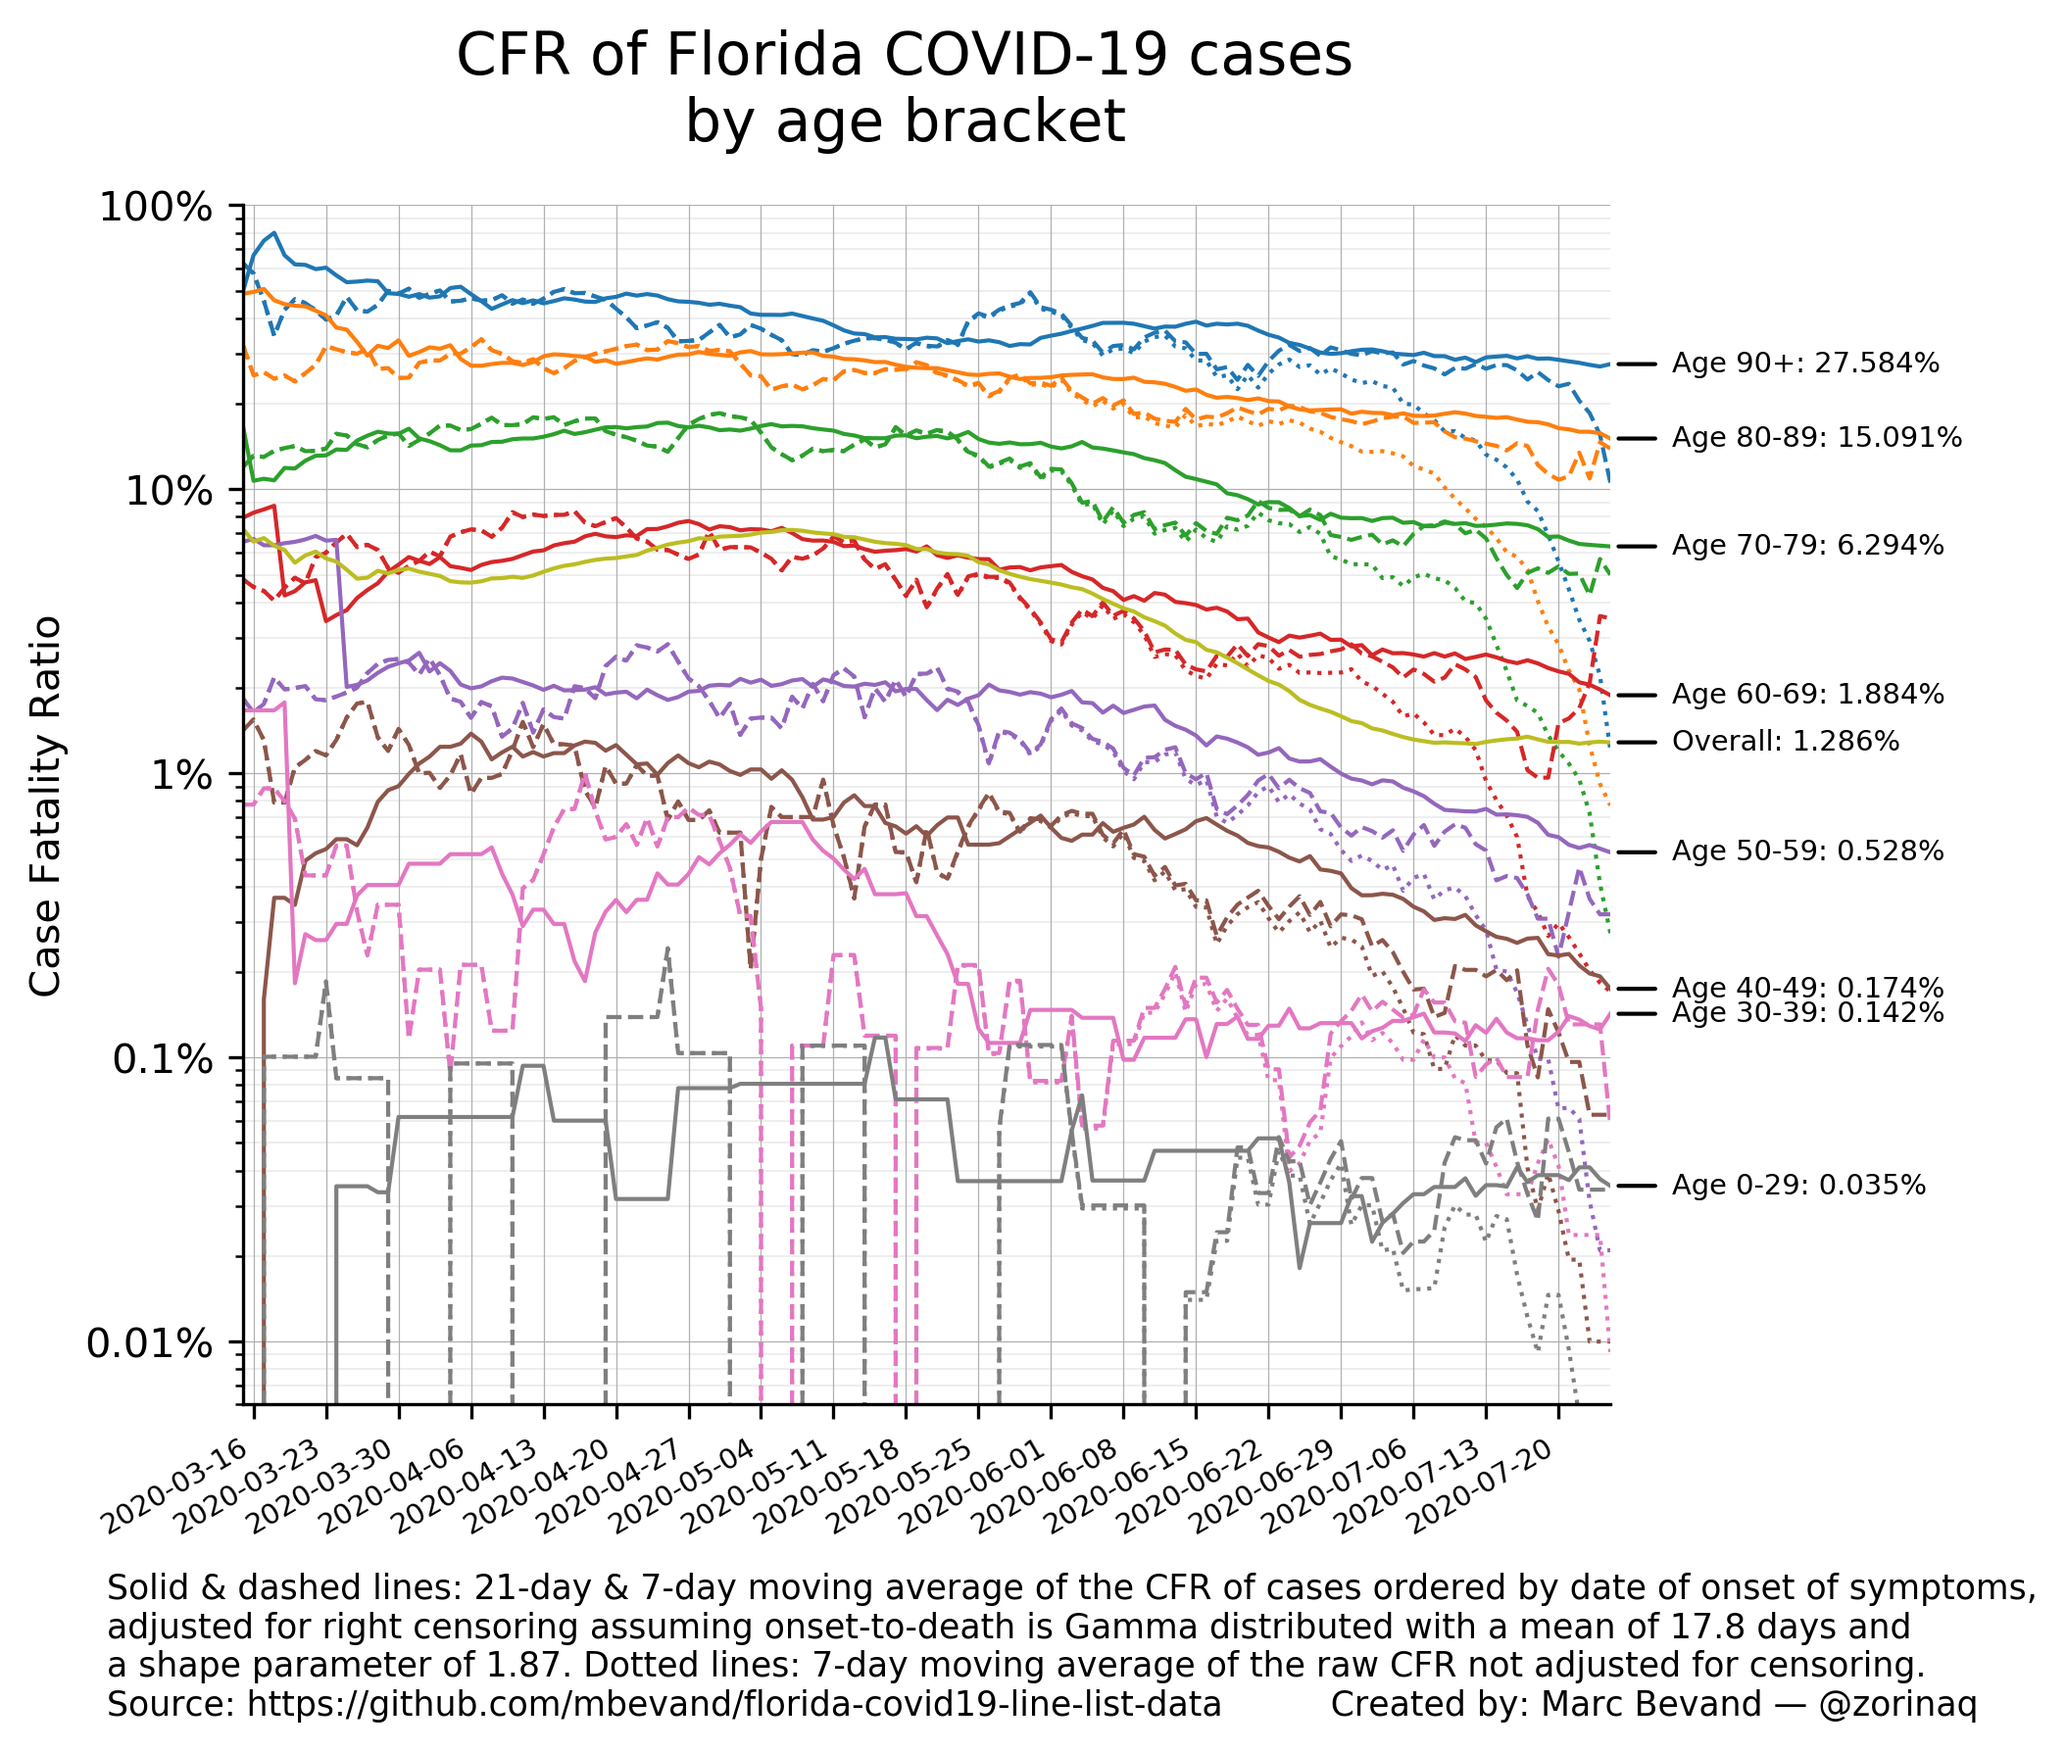
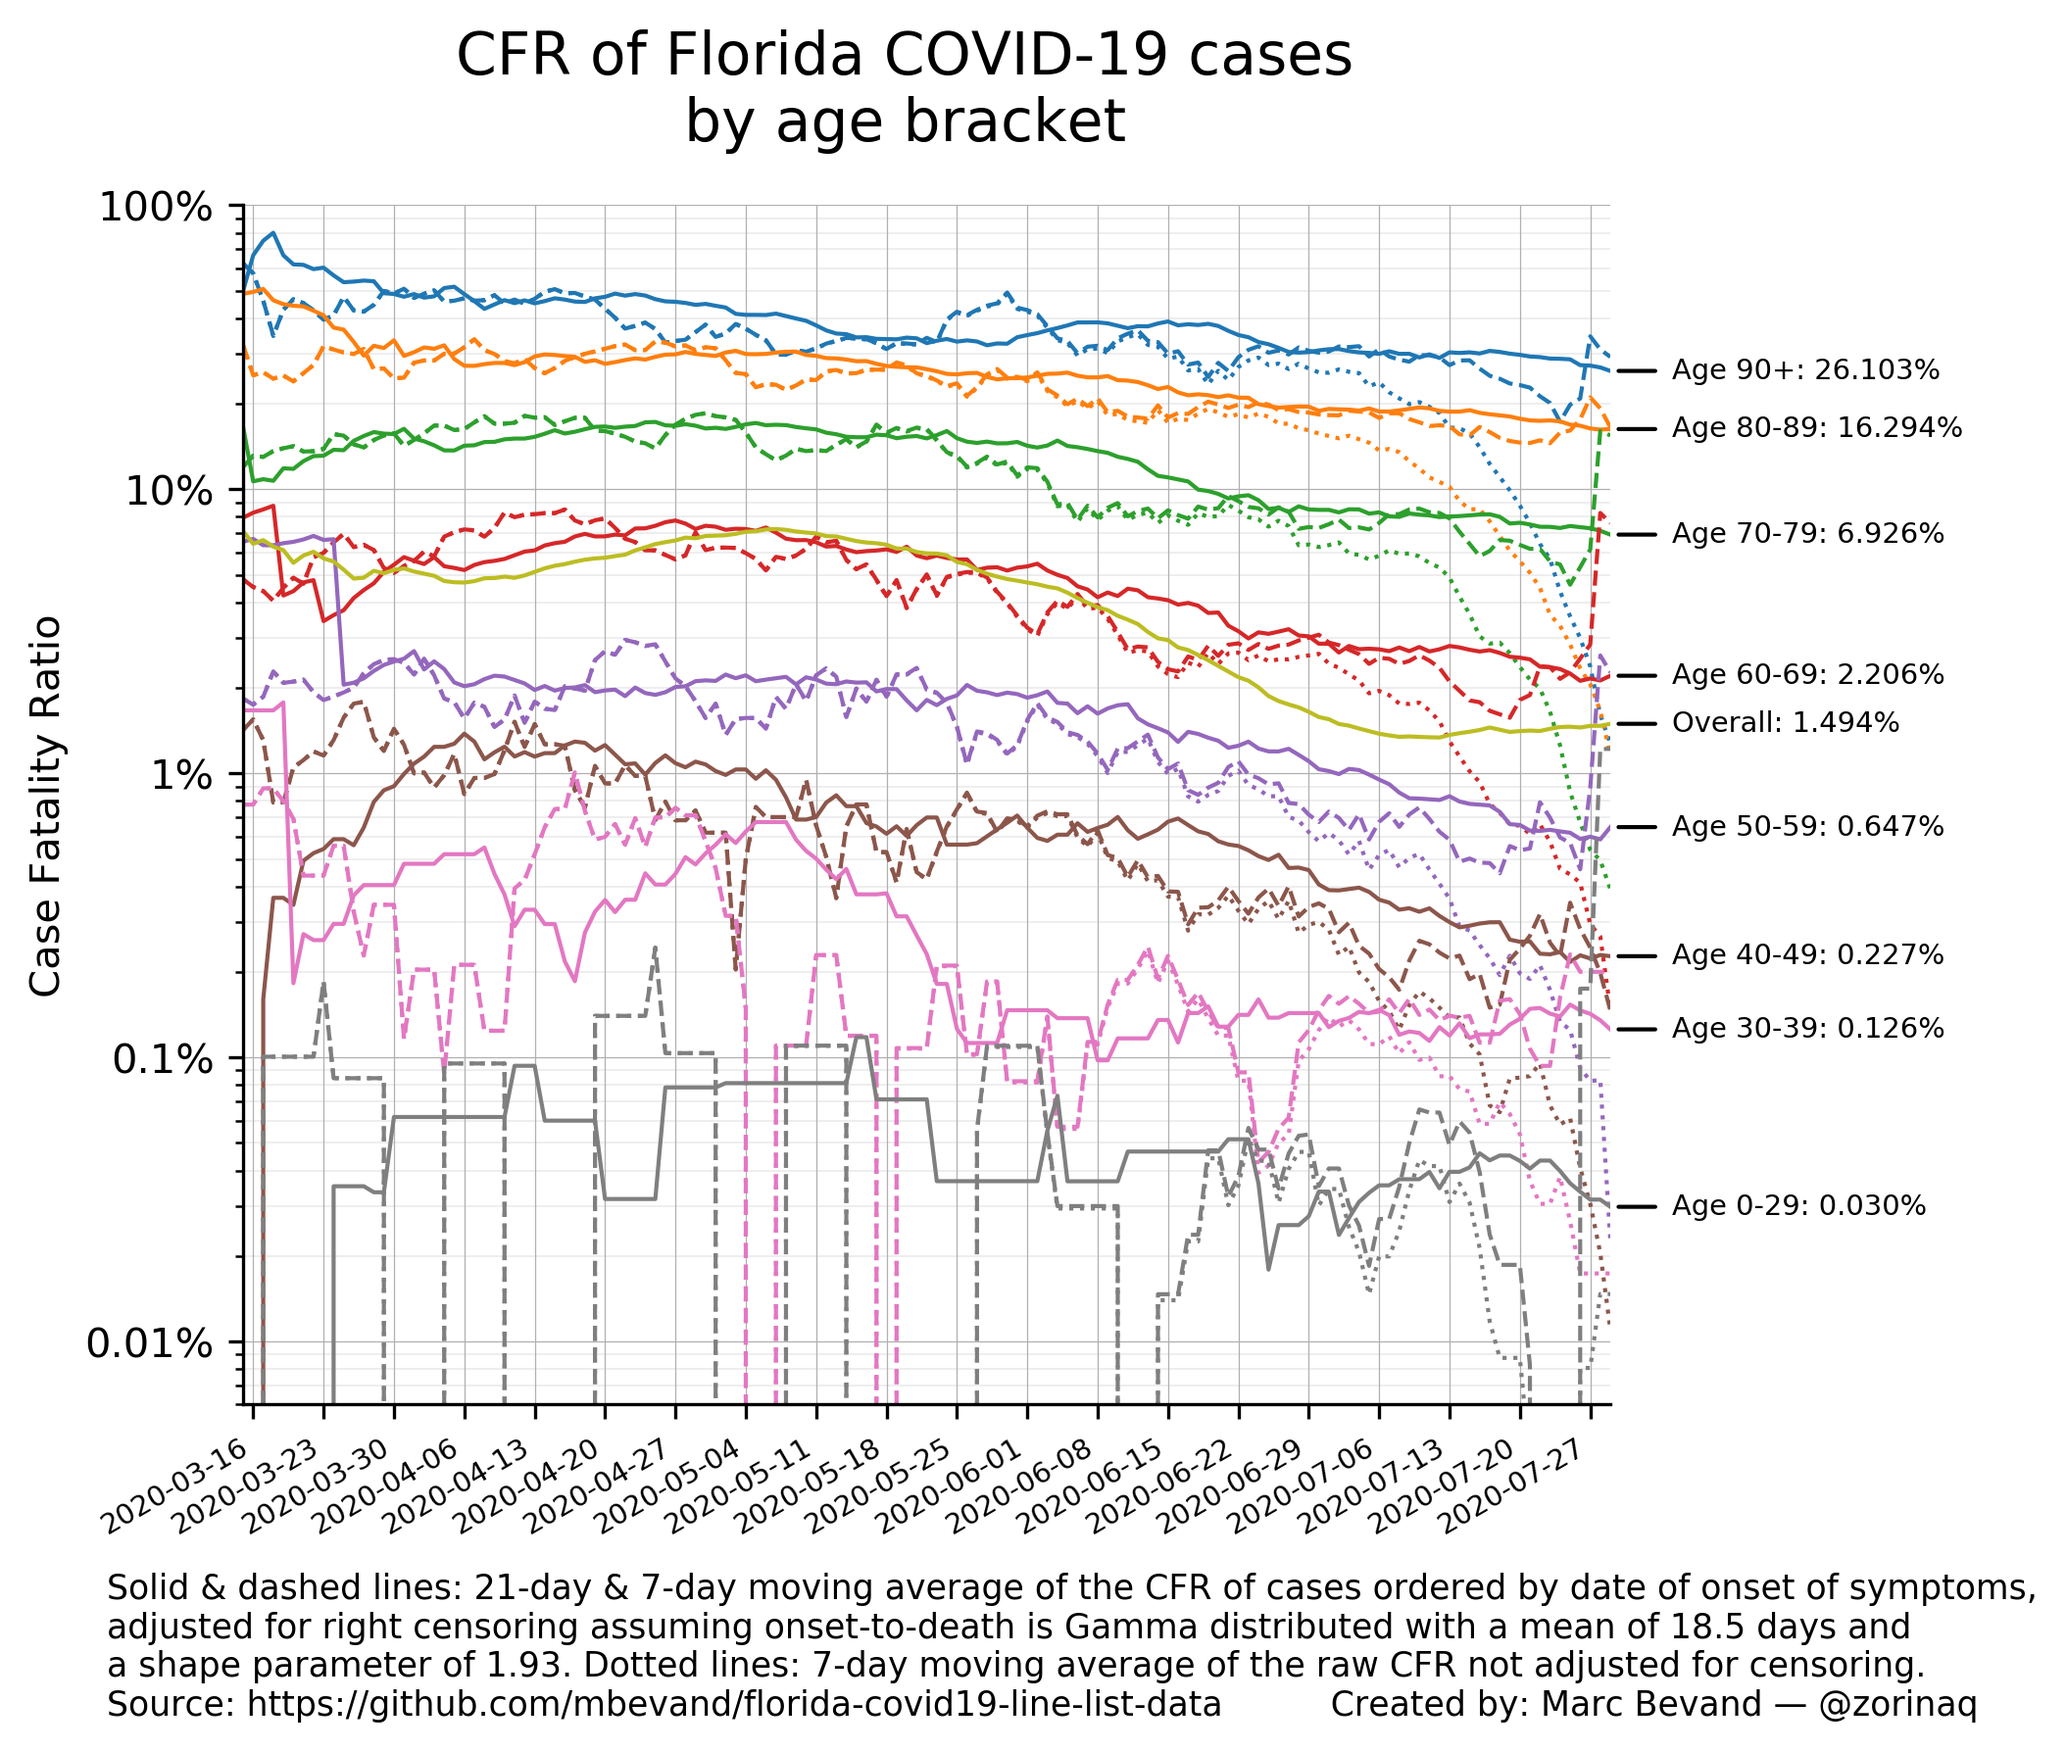
update age-stratified CFR (model 5)

Changed region(s): [[0.0925, 0.1539, 0.9559, 0.8926], [0.8017, 0.9233, 0.8325, 0.9541]]

diff --git a/forecast_deaths.py b/forecast_deaths.py
@@ -108,15 +108,15 @@ cfr_models = [
         CFRModel(
             '5',
             'Our CFR calculated on the Florida line list (age_stratified_cfr.py)',
-            1.286 / 100, {
-                (0, 29):  0.035 / 100,
-                (30, 39): 0.142 / 100,
-                (40, 49): 0.174 / 100,
-                (50, 59): 0.528 / 100,
-                (60, 69): 1.884 / 100,
-                (70, 79): 6.294 / 100,
-                (80, 89): 15.091 / 100,
-                (90, 199): 27.584 / 100,
+            1.494 / 100, {
+                (0, 29):  0.030 / 100,
+                (30, 39): 0.126 / 100,
+                (40, 49): 0.227 / 100,
+                (50, 59): 0.647 / 100,
+                (60, 69): 2.206 / 100,
+                (70, 79): 6.926 / 100,
+                (80, 89): 16.294 / 100,
+                (90, 199): 26.103 / 100,
                 }
             ),
         ]
